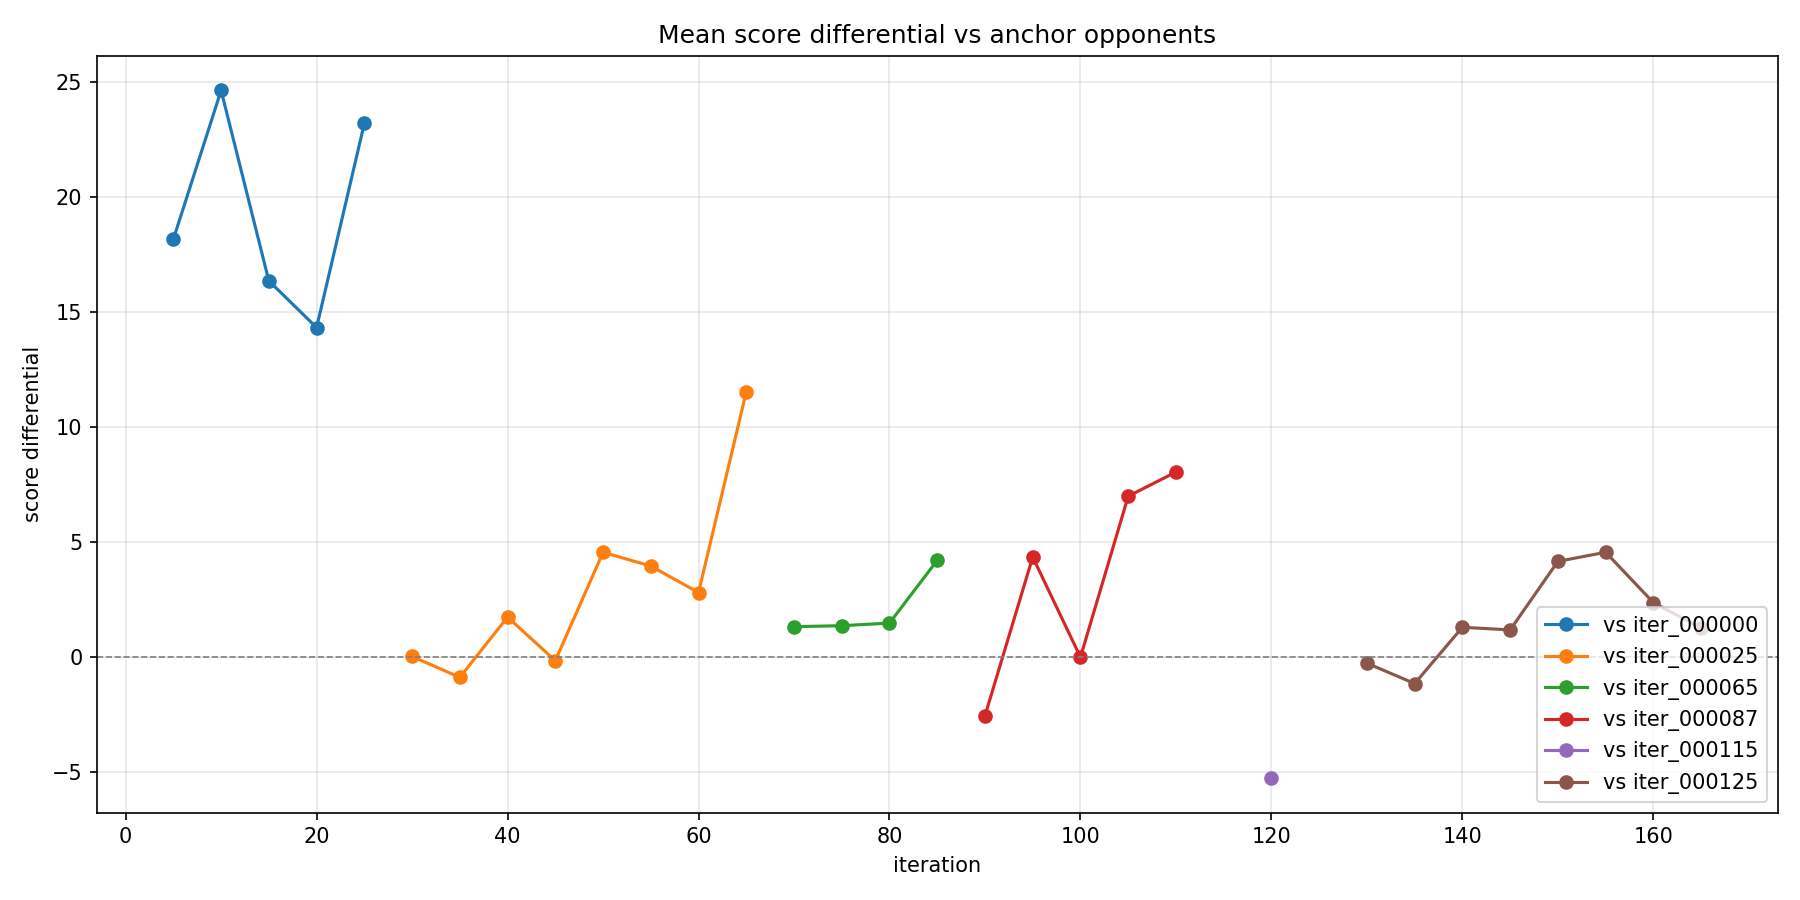
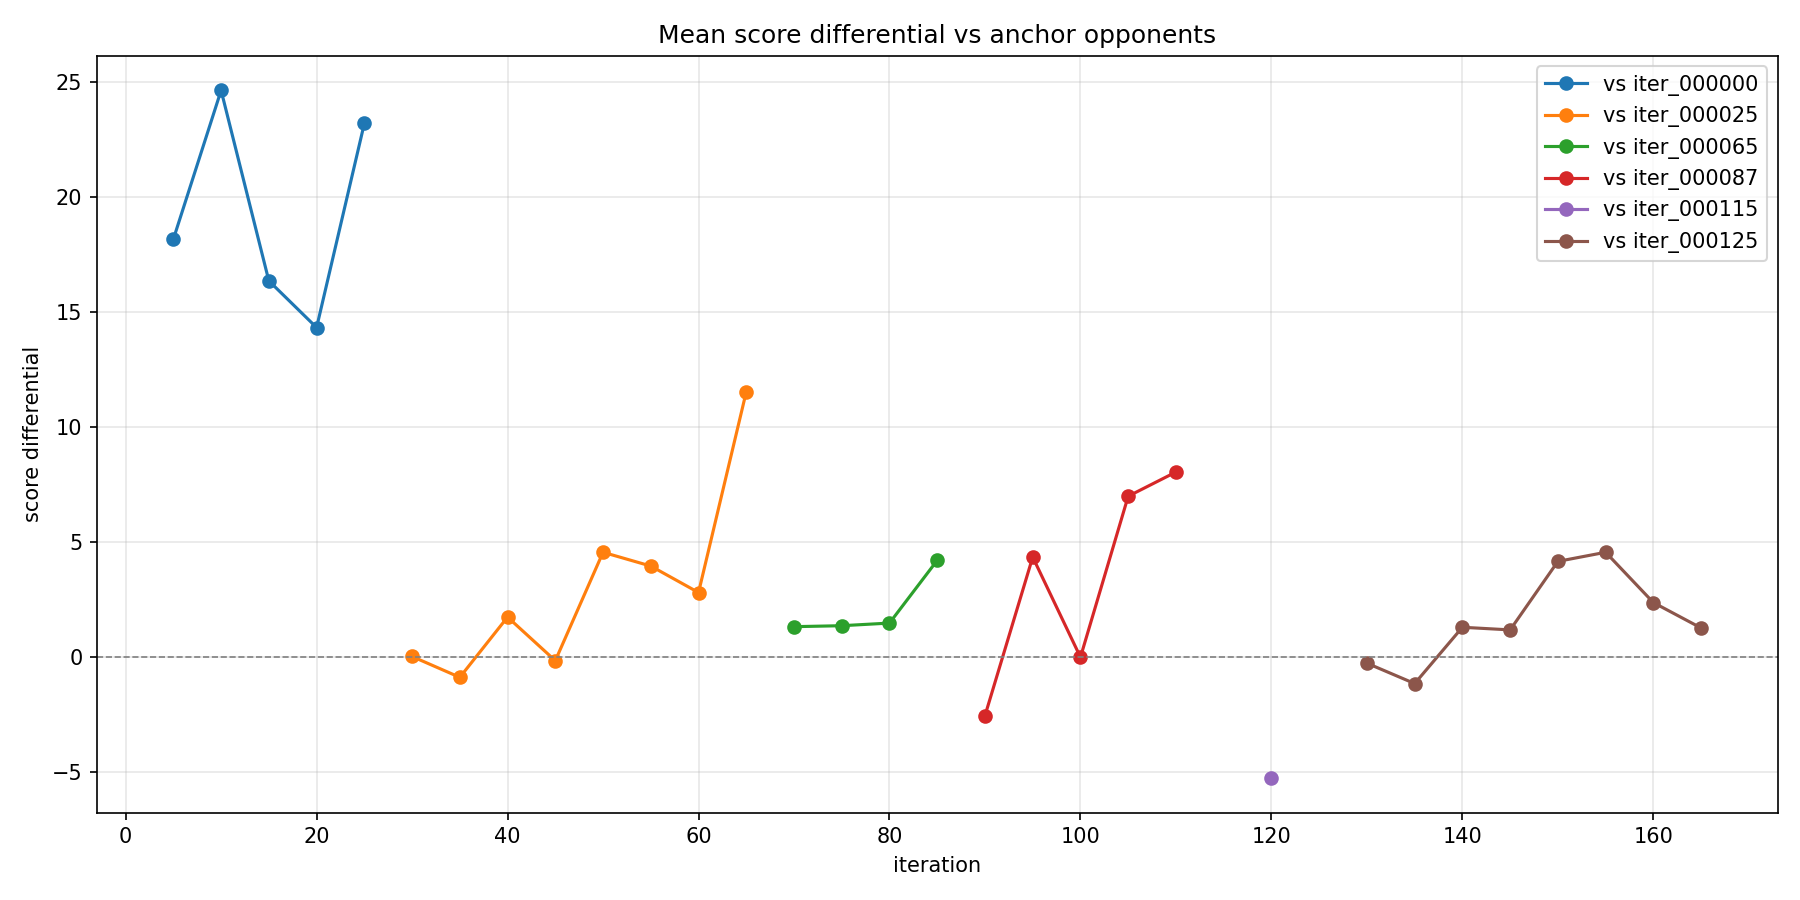
Ended training for now :)

Changed region(s): [[0.84, 0.6533, 0.9956, 0.9022], [0.84, 0.0622, 0.9956, 0.28]]

diff --git a/blob-engine/src/mcts.rs b/blob-engine/src/mcts.rs
@@ -1058,20 +1058,24 @@ pub struct MctsResult {
 
 /// Pick per-decision `(num_determinizations, sims_per_determinization)`.
 ///
-/// Phase-A baseline (Session 7.3c): flat `5 × 100 = 500` sims for every
-/// non-forced decision, matching the 7.2 run that reached 0.77 eval win
-/// rate at iter 10. The 7.3a bucketed schedule starved low-branching
-/// decisions (60 / 90 sims at `nl ∈ {2, 3}`) — see `7.3b-analysis.md`
-/// §5 and §7.1. Forced moves (`num_legal ≤ 1`) still short-circuit with
-/// `(1, 0)` so `mcts_search` can skip the tree.
+/// Reads `cfg.num_determinizations` and `cfg.sims_per_determinization`
+/// directly (Session 7.3c rewired 2026-05-17): the previous Phase-A
+/// implementation hardcoded `5 × 100 = 500` for every non-forced
+/// decision, so TOML overrides were silently ignored. The 7.3a bucketed
+/// schedule (60 / 90 sims at `nl ∈ {2, 3}`) starved low-branching
+/// decisions — see `7.3b-analysis.md` §5 / §7.1 — so the practical
+/// floor remains 5 × 100, but the budget is now config-driven for
+/// diagnostics and future sweeps. Forced moves (`num_legal ≤ 1`) still
+/// short-circuit with `(1, 0)` so `mcts_search` can skip the tree.
 ///
-/// `min_sims_floor` remains as a safety net in case a future change
+/// `min_sims_floor` remains as a safety net in case a future config
 /// lowers these numbers.
 pub fn adaptive_budget(num_legal: usize, cfg: &MctsConfig) -> (u32, u32) {
     if num_legal <= 1 {
         return (1, 0);
     }
-    let (dets, mut sims) = (5u32, 100u32);
+    let dets = cfg.num_determinizations.max(1);
+    let mut sims = cfg.sims_per_determinization;
 
     let total = dets.saturating_mul(sims);
     if total < cfg.min_sims_floor {
@@ -1662,25 +1666,37 @@ mod tests {
     }
 
     #[test]
-    fn adaptive_budget_is_flat_5x100() {
-        let cfg = MctsConfig {
-            num_determinizations: 1,
-            sims_per_determinization: 1,
-            min_sims_floor: 60,
+    fn adaptive_budget_reads_cfg() {
+        // Forced move → (1, 0) regardless of cfg.
+        let any_cfg = MctsConfig::default();
+        assert_eq!(adaptive_budget(1, &any_cfg), (1, 0));
+
+        // Default cfg (5 × 100) → flat (5, 100) for every branching factor.
+        for n in 2..=25 {
+            assert_eq!(adaptive_budget(n, &any_cfg), (5, 100), "nl={n}");
+        }
+
+        // Doubled sims-per-determinization → flows through.
+        let cfg_2x_sims = MctsConfig {
+            sims_per_determinization: 200,
             ..MctsConfig::default()
         };
-        // Forced move → (1, 0).
-        assert_eq!(adaptive_budget(1, &cfg), (1, 0));
-        // Every non-forced branching factor → flat (5, 100) per Phase-A.
-        for n in 2..=25 {
-            assert_eq!(adaptive_budget(n, &cfg), (5, 100), "nl={n}");
-        }
-        // A larger `min_sims_floor` can still raise sims above 100.
-        let cfg2 = MctsConfig {
-            min_sims_floor: 750,
-            ..cfg
+        assert_eq!(adaptive_budget(4, &cfg_2x_sims), (5, 200));
+
+        // Doubled determinizations → flows through.
+        let cfg_2x_dets = MctsConfig {
+            num_determinizations: 10,
+            ..MctsConfig::default()
         };
-        let (dets, sims) = adaptive_budget(4, &cfg2);
+        assert_eq!(adaptive_budget(4, &cfg_2x_dets), (10, 100));
+
+        // A larger `min_sims_floor` can still raise sims above the cfg value.
+        let cfg_floor = MctsConfig {
+            sims_per_determinization: 50,
+            min_sims_floor: 750,
+            ..MctsConfig::default()
+        };
+        let (dets, sims) = adaptive_budget(4, &cfg_floor);
         assert_eq!(dets, 5);
         assert!(dets * sims >= 750, "floor not enforced: {dets}×{sims}");
     }

diff --git a/scripts/visualize_strength.py b/scripts/visualize_strength.py
@@ -84,7 +84,41 @@ def plot_score_differential(rows: list[dict], out_path: Path) -> None:
     ax.set_xlabel("iteration")
     ax.set_ylabel("score differential")
     ax.set_title("Mean score differential vs anchor opponents")
-    ax.legend(loc="lower right")
+    ax.legend(loc="upper right")
+    ax.grid(True, alpha=0.3)
+    fig.tight_layout()
+    fig.savefig(out_path, dpi=150)
+    plt.close(fig)
+
+
+def plot_bid_success(rows: list[dict], out_path: Path) -> None:
+    """Bid success rate (1 − blob rate) per anchor stretch.
+
+    Plots `bid_success_rate_current` (solid) and `bid_success_rate_opponent`
+    (dashed, same colour) for each anchor in `strength.csv`. The two
+    lines being close together is the diagnostic that "both sides have
+    saturated at the structural bidding ceiling" (see AGENTS.md — for a
+    5-player table the per-player success ceiling sits around ~0.6).
+
+    A divergence — current rising above opponent — is a real strength
+    gain that the win-rate plot may mask, since bid accuracy precedes
+    win-rate gains in this AlphaZero loop.
+    """
+    groups = group_by_opponent(rows)
+    fig, ax = plt.subplots(figsize=(12, 6))
+    for opp, items in sorted(groups.items()):
+        x = [int(r["iteration"]) for r in items]
+        cur = [float(r["bid_success_rate_current"]) for r in items]
+        anc = [float(r["bid_success_rate_opponent"]) for r in items]
+        line, = ax.plot(x, cur, marker="o", label=f"current vs {opp}")
+        ax.plot(x, anc, marker="x", linestyle="--",
+                color=line.get_color(), alpha=0.6,
+                label=f"{opp} (anchor)")
+    ax.set_xlabel("iteration")
+    ax.set_ylabel("bid success rate (1 − blob rate)")
+    ax.set_title("Bid success rate vs anchor opponents")
+    ax.set_ylim(0.2, 0.8)
+    ax.legend(loc="lower right", fontsize=7, ncol=2)
     ax.grid(True, alpha=0.3)
     fig.tight_layout()
     fig.savefig(out_path, dpi=150)
@@ -427,6 +461,7 @@ def main() -> None:
     plot_winrate(rows, args.out_dir / "01_winrate.png")
     plot_score_differential(rows, args.out_dir / "02_score_differential.png")
     plot_losses(rows, args.out_dir / "03_train_losses.png")
+    plot_bid_success(rows, args.out_dir / "06_bid_success.png")
 
     metrics: list[dict] | None = None
     if args.metrics and args.metrics.exists():

diff --git a/AGENTS.md b/AGENTS.md
@@ -113,6 +113,30 @@ For resumes: `total_iterations` is still the absolute target. Resuming from `ite
 
 Resume-anchor caveat: `--resume`'ing does not preserve the from-scratch eval anchor. `try_resume` sets `anchor_iter = tl.iteration` (= the resume baseline), so post-resume in-loop evals in `strength.csv` are vs the resume baseline, not vs `iter_000000`. To compare the resumed model to the from-scratch starting point, run `blobmaster-train evaluate iter_K/model.onnx iter_000000/model.onnx` directly.
 
+## MCTS sim budget is config-driven (since 2026-05-17)
+
+[`adaptive_budget`](blob-engine/src/mcts.rs) returns `(num_determinizations, sims_per_determinization)` for every non-forced decision and **reads both directly from `MctsConfig`** — i.e. the `[mcts]` block of the training TOML or the `--config` TOML passed to `blobmaster-train evaluate`. Forced moves (`num_legal ≤ 1`) still short-circuit to `(1, 0)`. `min_sims_floor` is a safety net that can raise `sims` if the configured budget falls below it.
+
+**Before 2026-05-17 this was hardcoded to `(5, 100)`** and the TOML fields were silently ignored. Any pre-2026-05-17 run logs / scripts that "set" `sims_per_determinization` were really running at 5×100; treat their declared budgets as decorative. Going forward, the values in `[mcts]` are load-bearing.
+
+**To run an eval at a different sim budget** (e.g. the diagnostic that asks "is iter_X actually stronger than iter_Y at 2× sims, or are they just tied because 500 sims can't resolve them?"):
+
+```bash
+cp blob-train/run-<name>.toml /tmp/eval-5x200.toml
+sed -i 's/^sims_per_determinization = 100$/sims_per_determinization = 200/' /tmp/eval-5x200.toml
+./scripts/run-train.sh evaluate \
+  --model-a checkpoints/<run>/iter_AAAAAA/model.onnx \
+  --model-b checkpoints/<run>/iter_BBBBBB/model.onnx \
+  --num-games 200 --num-players 5 --cards-dealt 7 \
+  --config /tmp/eval-5x200.toml
+```
+
+Confirm the override took effect: the startup log line `evaluate — starting head-to-head ...` echoes `num_determinizations=` and `sims_per_determinization=`. If those don't match your TOML, the override didn't land.
+
+**To run training at a different sim budget**, edit the run's TOML before launch (or before `--resume`). The cost is roughly linear in `dets × sims`: at 5×100 self-play is ~520s/iter on this box (mean from run-2026-05-14, see [self-play-profile.md](self-play-profile.md)); 5×200 ≈ ~1000s, pushing iter wall from ~1500s to ~2000s. Budget accordingly.
+
+**Don't lower the budget below 5×100 without a strong reason.** The 7.3a "bucketed" schedule (60 sims at `nl=2`, 90 at `nl=3`) starved low-branching decisions and regressed strength — see [7.3b-analysis.md](7.3b-analysis.md) §5 / §7.1. The 5×100 floor is the empirical minimum for usable learning signal. The `adaptive_budget_reads_cfg` unit test in [blob-engine/src/mcts.rs](blob-engine/src/mcts.rs) pins the cfg-driven behavior; if you change the budget shape, update that test.
+
 ## Graceful exit (`STOP` file)
 
 The training driver checks for `<checkpoint_dir>/STOP` at each iteration boundary. `touch checkpoints/<run-name>/STOP` to ask the loop to finish the current iteration (save checkpoint + export ONNX), then exit cleanly. The file is deleted on detection so the next `--resume` doesn't immediately stop again. There is no SIGINT/SIGTERM handler, so Ctrl-C still hard-kills mid-iter and loses the in-flight iteration's compute (~35-45 min on the 7950X mixed-player stack). Use STOP if you care about that work.

diff --git a/README.md b/README.md
@@ -46,6 +46,17 @@ The original Python/PyTorch implementation (Phases 1-4) has been **concluded and
 
 The Rust rewrite is in progress. The neural network architecture has been fully specified and supersedes the legacy design.
 
+## Training Progress (iter 0–167)
+
+Snapshots from the run logged in [logs/run-2026-05-14-progress/](logs/run-2026-05-14-progress/). The model is steadily promoting past its own past selves and the bid success rate — the most domain-meaningful skill metric — keeps climbing.
+
+| | |
+|:---:|:---:|
+| ![Win rate vs anchor opponents](logs/run-2026-05-14-progress/01_winrate.png) | ![Mean score differential vs anchor opponents](logs/run-2026-05-14-progress/02_score_differential.png) |
+| **Win rate vs anchor opponents** — each color is a frozen past checkpoint; the current model crosses the promote band (lower 95% CI ≥ 0.55) and a new anchor is captured. | **Mean score differential** — same anchors, signed score gap. Trending up against every successive anchor after early promotions. |
+| ![Training convergence diagnostics](logs/run-2026-05-14-progress/04_convergence.png) | ![Bid success rate vs anchor opponents](logs/run-2026-05-14-progress/06_bid_success.png) |
+| **Training convergence** — combined / value loss, top-1 accuracy (bid & play), early-stop epoch budget, LR cosine schedule, and policy KL vs MCTS visit entropy. | **Bid success rate** — fraction of rounds where the model hits its bid exactly. Current vs anchor at each evaluation; current (solid) consistently outperforms the frozen anchor (dashed). |
+
 ## What's Here
 
 ```
